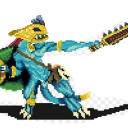
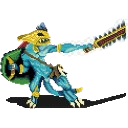
player moves and can jump over grounds

diff --git a/odyssey/core/src/lewis/edu/game/Warriors.java b/odyssey/core/src/lewis/edu/game/Warriors.java
@@ -5,35 +5,56 @@ import com.badlogic.gdx.graphics.g2d.Sprite;
 import com.badlogic.gdx.graphics.g2d.SpriteBatch;
 import com.badlogic.gdx.math.Rectangle;
 
-public class Warriors {
-    Rectangle bottom, left, right, top;
+public class Warriors extends GameObject {
+    Rectangle bottom, left, right, top, full;
     Sprite sprite;
     Texture texture;
     int action;
-    float veolocity;
+    float velocityY;
+    int direction = 0;
 
     // entry point
     public Warriors() {
-        bottom = new Rectangle(0.0f,0.0f, 128.0f, 128.0f);
+        full = new Rectangle(0.0f,0.0f, 128.0f, 128.0f);
+        bottom = new Rectangle(0, 0, 128, 16);
+        left = new Rectangle(0, 16, 64, 96);
+        right = new Rectangle(64, 16, 64, 96);
+        top = new Rectangle(0, 112, 128, 16);
 
-        texture = new Texture("images/warrior.png");
+
+        texture = new Texture("images/escanor.png");
         sprite = new Sprite(texture, 0,0,128,128);
         this.setPosition(0, 0);
+        velocityY = 0;
     }
 
     public int hits(Rectangle r) {
+        if (left.overlaps(r)) {
+            return 2;
+        }
+        if (right.overlaps(r)) {
+            return 3;
+        }
+        if (top.overlaps(r)) {
+            return 4;
+        }
         if (bottom.overlaps(r)) {
-            return -1;
+            return 1;
         }
         return -1;
     }
 
-    public void action(int type) {
-
+    public void action(int type, float x, float y) {
+        if (type == 1) {
+            velocityY = 0;
+            setPosition(bottom.x, y);
+        }
     }
 
     public void update(float delta) {
-
+        velocityY -= 500 * delta;
+        bottom.y += velocityY;
+        sprite.setPosition(bottom.x, bottom.y + (velocityY*delta));
     }
 
     public void setPosition(float x, float y) {
@@ -43,15 +64,37 @@ public class Warriors {
     }
 
     public void moveLeft(float delta) {
-        
+        int speed = 100;
+        setPosition(bottom.x - (speed * delta), bottom.y);
+        if (direction == 1) {
+            direction = 0;
+            sprite.flip(true, false);
+        }
     }
 
-    public void moveright(float delta) {
-        
+    public void moveRight(float delta) {
+        int speed = 100;
+        setPosition(bottom.x - (speed * delta), bottom.y);
+        if (direction == 0) {
+            direction = 1;
+            sprite.flip(true, false);
+        }
     }
 
     public void draw(SpriteBatch batch) {
         sprite.draw(batch);
+    }
+
+    public void jump() {
+        if (velocityY == 0) {
+            velocityY = 400;
+        }
+    }
+
+    @Override
+    public Rectangle getHitBox() {
+        
+        return full;
     }
 
 }

diff --git a/odyssey/core/src/lewis/edu/game/OdysseyGame.java b/odyssey/core/src/lewis/edu/game/OdysseyGame.java
@@ -1,15 +1,20 @@
 package lewis.edu.game;
 
+import java.util.ArrayList;
+
 import com.badlogic.gdx.ApplicationAdapter;
 import com.badlogic.gdx.Gdx;
+import com.badlogic.gdx.Input;
 import com.badlogic.gdx.graphics.GL20;
 import com.badlogic.gdx.graphics.OrthographicCamera;
 import com.badlogic.gdx.graphics.g2d.SpriteBatch;
+import com.badlogic.gdx.math.Rectangle;
 
 public class OdysseyGame extends ApplicationAdapter {
 	private OrthographicCamera cam;
 	private SpriteBatch batch;
 	private Warriors player1;
+	private ArrayList<GameObject> list = new ArrayList<GameObject>();
 	
 	@Override
 	public void create () {
@@ -20,6 +25,14 @@ public class OdysseyGame extends ApplicationAdapter {
 		player1 = new Warriors();
 		player1.setPosition(200, 100);
 		
+		list.add(new Bricks(0,0));
+		list.add(new Bricks(64,0));
+		list.add(new Bricks(128,0));
+		list.add(new Bricks(256,128));
+		list.add(new Bricks(320,128));
+
+
+
 		
 	}
 
@@ -32,11 +45,33 @@ public class OdysseyGame extends ApplicationAdapter {
 
 		batch.begin();
 		player1.draw(batch);
+		for (GameObject t : list) {
+			t.draw(batch);
+		}
 		batch.end();
 
 		// Updates
+		player1.update(Gdx.graphics.getDeltaTime());
+		Rectangle temp = new Rectangle(0, 0, 800, 10);
+		if (player1.hits(temp) != -1) {
+			player1.action(1, 0, 10);
+		}
 
-		// Controls  
+		for (GameObject t : list) {
+			if (player1.hits(t.getHitBox()) != -1) {
+				player1.action(1, 0, t.getHitBox().y + t.getHitBox().height);
+			}
+		}
+		// Controls
+		if (Gdx.input.isKeyPressed(Input.Keys.LEFT)) {
+			player1.moveLeft(Gdx.graphics.getDeltaTime());
+		}
+		if (Gdx.input.isKeyPressed(Input.Keys.RIGHT)) {
+			player1.moveRight(Gdx.graphics.getDeltaTime());
+		}
+		if (Gdx.input.isKeyPressed(Input.Keys.SPACE)) {
+			player1.jump();
+		}   
 	}
 	
 	@Override

diff --git a/odyssey/core/src/lewis/edu/game/Bricks.java b/odyssey/core/src/lewis/edu/game/Bricks.java
@@ -1,0 +1,77 @@
+package lewis.edu.game;
+
+import com.badlogic.gdx.graphics.Texture;
+import com.badlogic.gdx.graphics.g2d.Sprite;
+import com.badlogic.gdx.graphics.g2d.SpriteBatch;
+import com.badlogic.gdx.math.Rectangle;
+
+public class Bricks extends GameObject {
+
+    Rectangle hitBox;
+    Sprite sprite;
+    Texture texture;
+    
+
+    public Bricks(int x, int y) {
+        hitBox = new Rectangle(x, y, 64, 64);
+        texture = new Texture("images/sand.png");
+        sprite = new Sprite(texture, 0, 0, 64, 64);
+        setPosition(x, y);
+    }
+
+    @Override
+    public void action(int type, float x, float y) {
+        // TODO Auto-generated method stub
+
+    }
+
+    @Override
+    public void draw(SpriteBatch batch) {
+        sprite.draw(batch);
+
+    }
+
+    @Override
+    public Rectangle getHitBox() {
+        return hitBox;
+    }
+
+    @Override
+    public int hits(Rectangle r) {
+        // TODO Auto-generated method stub
+        return 0;
+    }
+
+    @Override
+    public void jump() {
+        // TODO Auto-generated method stub
+
+    }
+
+    @Override
+    public void moveLeft(float delta) {
+        // TODO Auto-generated method stub
+
+    }
+
+    @Override
+    public void moveRight(float delta) {
+        // TODO Auto-generated method stub
+
+    }
+
+    @Override
+    public void setPosition(float x, float y) {
+        hitBox.x = x;
+        hitBox.y = y;
+        sprite.setPosition(x, y);
+
+    }
+
+    @Override
+    public void update(float delta) {
+        // TODO Auto-generated method stub
+
+    }
+    
+}

diff --git a/odyssey/core/src/lewis/edu/game/GameObject.java b/odyssey/core/src/lewis/edu/game/GameObject.java
@@ -1,0 +1,17 @@
+package lewis.edu.game;
+
+import com.badlogic.gdx.graphics.g2d.SpriteBatch;
+import com.badlogic.gdx.math.Rectangle;
+
+public abstract class GameObject {
+    public abstract int hits(Rectangle r);
+    public abstract void action(int type, float x, float y);
+    public abstract void update(float delta);
+    public abstract void setPosition(float x, float y);
+    public abstract void moveLeft(float delta);
+    public abstract void moveRight(float delta);
+    public abstract void draw(SpriteBatch batch);
+    public abstract void jump();
+    public abstract Rectangle getHitBox();
+    
+}

diff --git a/odyssey/desktop/src/lewis/edu/game/desktop/DesktopLauncher.java b/odyssey/desktop/src/lewis/edu/game/desktop/DesktopLauncher.java
@@ -2,6 +2,7 @@ package lewis.edu.game.desktop;
 
 import com.badlogic.gdx.backends.lwjgl.LwjglApplication;
 import com.badlogic.gdx.backends.lwjgl.LwjglApplicationConfiguration;
+
 import lewis.edu.game.OdysseyGame;
 
 public class DesktopLauncher {
